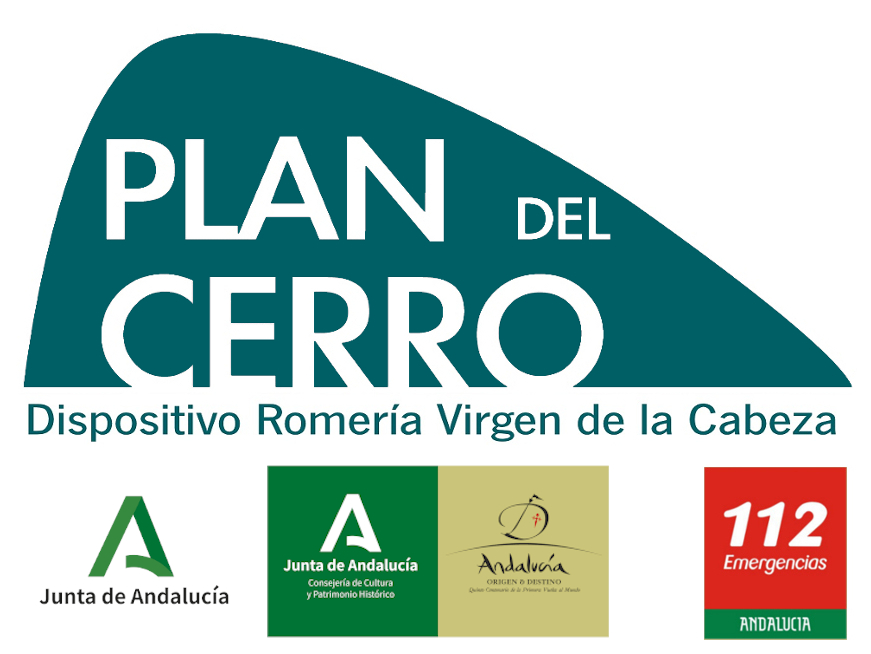
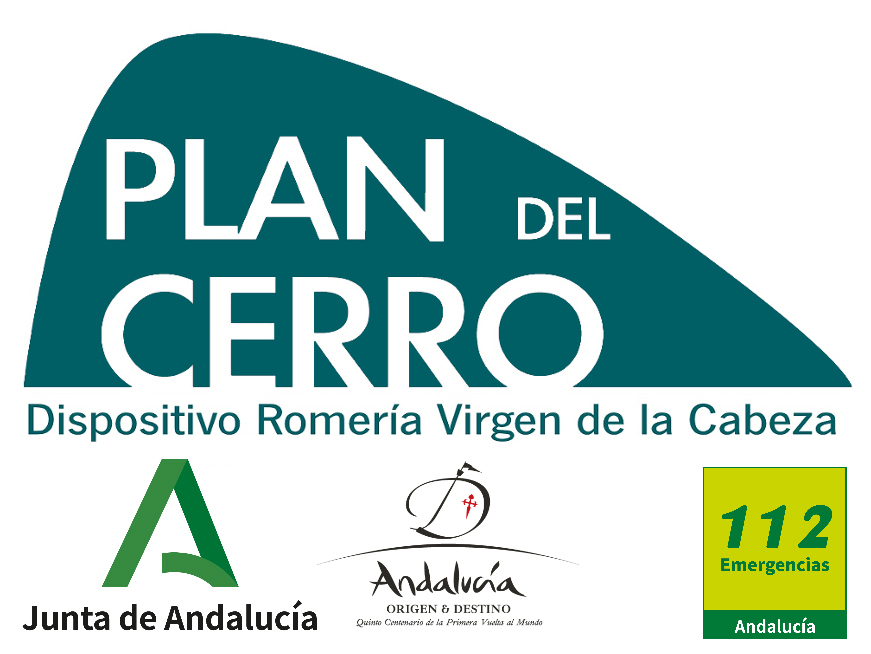
develop Comentario: Adición de imagen por defecto en vídeo y sustitución de imagenes de aplicación

Changed region(s): [[0.031, 0.7034, 0.713, 0.9786], [0.806, 0.7034, 0.992, 0.9786]]

diff --git a/js/app.js b/js/app.js
@@ -1,3 +1,4 @@
+
 /***********variables globales********/
 var mapajsRuta, mapajsTopo, mapajsGPS, mapajsDiario;
 var geoJSONformat = new ol.format.GeoJSON();
@@ -234,9 +235,6 @@ function cargarFechasHermandad(idHermandad) {
 function cargarVideos() {
 	return getInfo(getVideos).done(function (data) {
 
-		
-		
-		
 		let pageVids = $("#audiovisual .ui-content");
 		
 		pageVids.empty();
@@ -265,7 +263,12 @@ function cargarVideos() {
 			domTitle.text(video.title);
 			divTitle.append(domTitle);
 			let domImg =  $("<img>").addClass("img-video");
-			domImg.attr('src', video.urlImage);
+			if( video.urlImage != null && video.urlImage != "")
+			{
+				domImg.attr('src', video.urlImage);
+			}else{
+				divImage.css("background-color", "#777777");
+			}
 			divImage.append(playImage);
 			divImage.append(domImg);
 			domDoc.append(divImage);

diff --git a/css/app.css b/css/app.css
@@ -249,7 +249,7 @@ div.with_background {
 
 .img-video{
   max-height: 8vh;
-  max-width: 20w;
+  max-width: 20vw;
   flex-grow:0;
 }
 
@@ -257,6 +257,7 @@ div.with_background {
   max-width: 60%;
   max-height: 60%;
   position: absolute;
+  margin: auto;
 }
 
 .p-title-video{
@@ -279,7 +280,7 @@ padding-left: 4vw;;
   display: flex;
   align-items: center;
   justify-content: center;
-  padding-left: 4vw;
+  margin-left: 4vw;
 
 }
 
